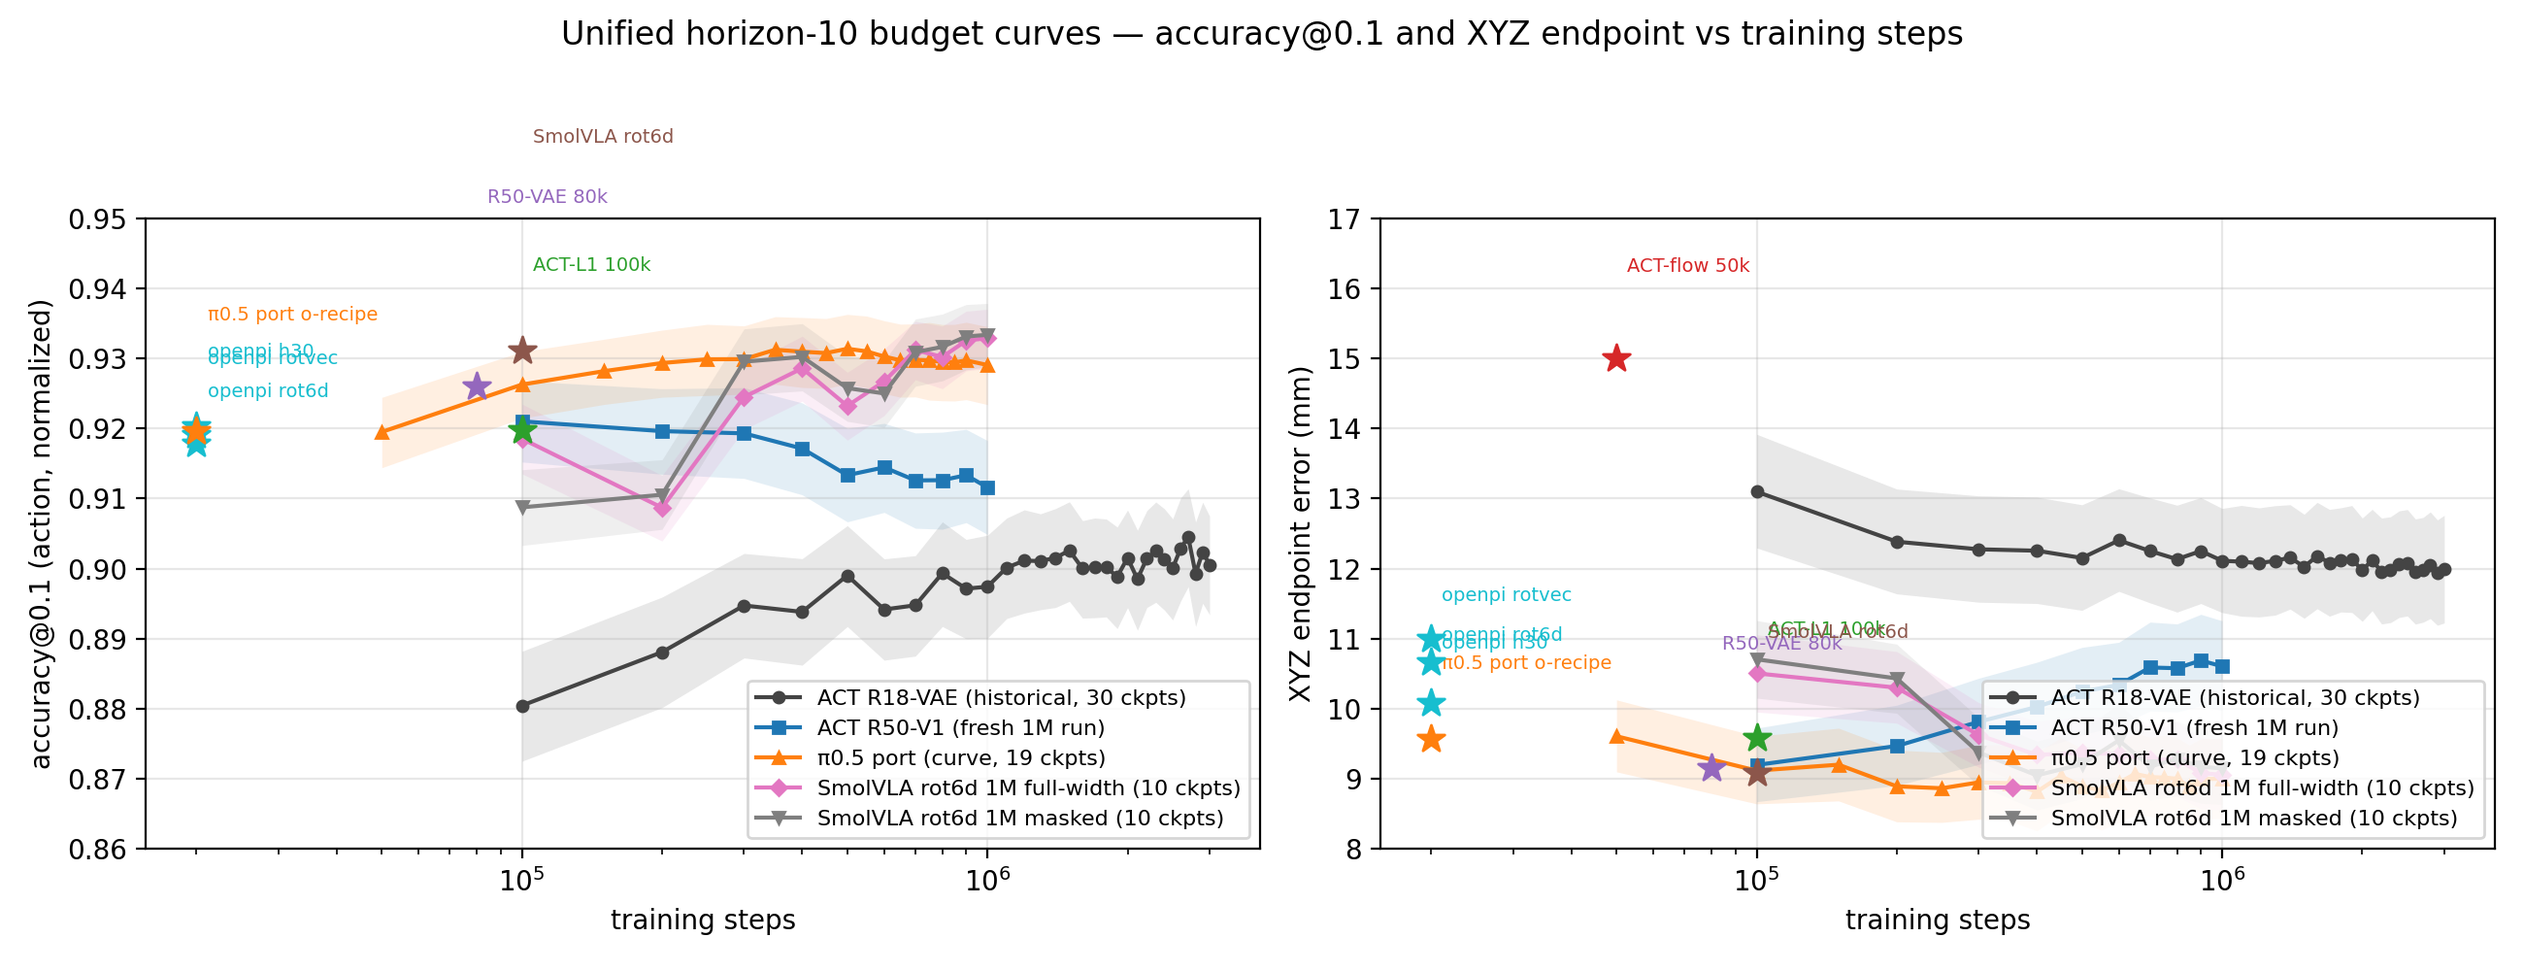
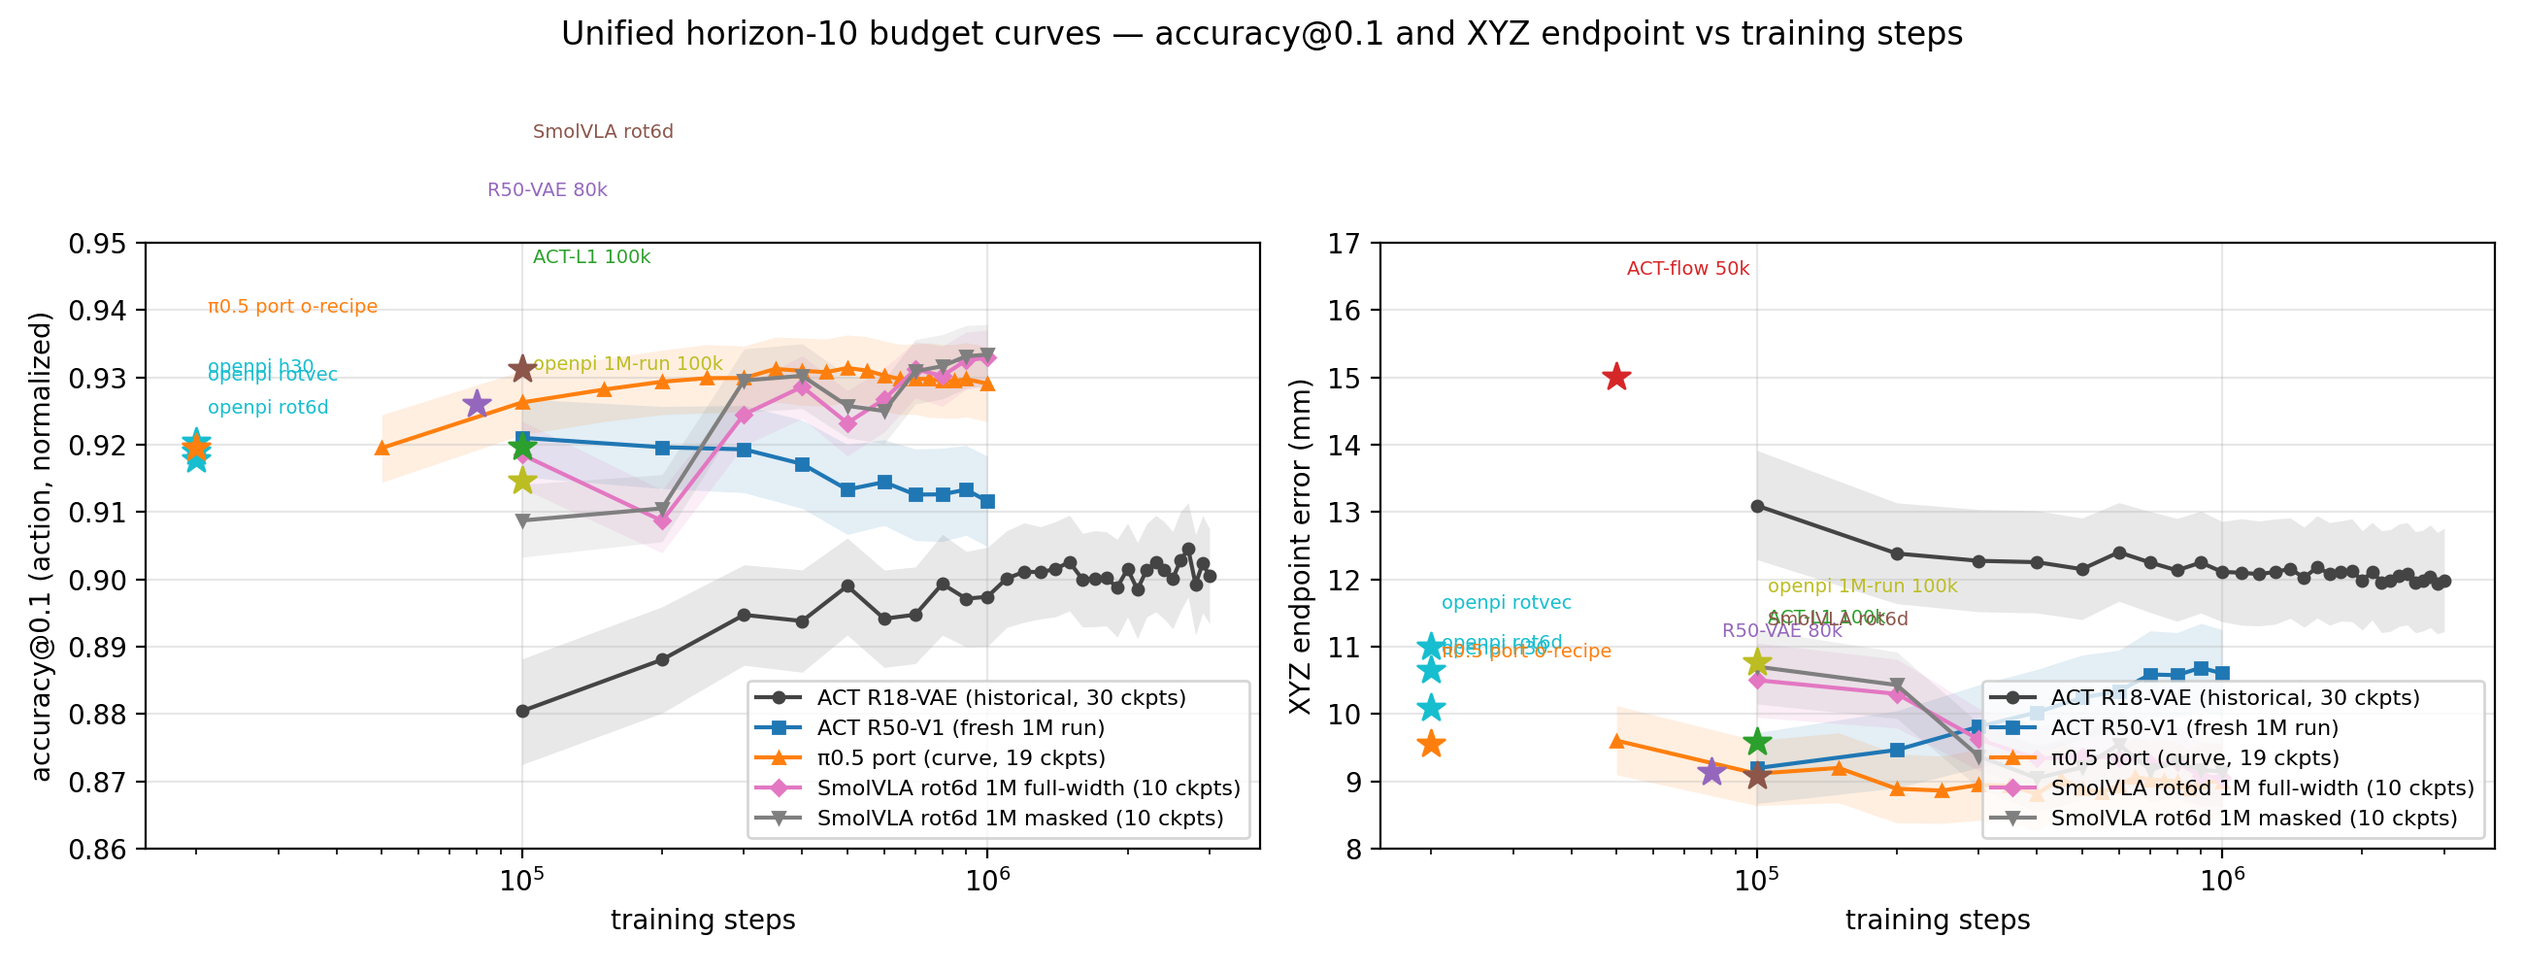
§9.2.12: openpi rot6d 1M-run stopped @111k — 100k ckpt scored (10.77mm, budget-flat; jerk 0.143° closest to GT)
Run pi05_lora_sroi_rot6d_1m stopped at 111k on 2026-08-23 per user
decision (~2.4 s/it put full 1M at ~27 days). Kept ckpt 100000 (with
train_state, resumable) evaluated under the §9.2.9 h10 protocol ×3
inference seeds (invariance reconfirmed: 10.77/10.78/10.77 mm).

- endpoint flat vs the 20k arm: 10.77 [10.22,11.34] vs 10.66
  [10.05,11.28] mm — 5× budget buys no t+10 endpoint; stays at the tie
  band's top edge
- at matched 100k steps port (9.12) and R50-V1 (9.20) lead with
  disjoint CIs; port@50k/200k samples already matches it — the h30
  sample-efficiency edge does not surface as an h10 endpoint lead
- rot-jerk 0.143° (GT 0.152°): closest-to-GT h10 row, tightened from
  0.157° at 20k — budget buys motion texture, not accuracy
- h10 tree 91→92 runs; plotter gains openpi1m family (olive star) in
  all four h10 figures; §9.2.9 master table + captions updated

diff --git a/examples/umi_relative_ee/act_flow_ablation/plot_unified_h10.py b/examples/umi_relative_ee/act_flow_ablation/plot_unified_h10.py
@@ -50,6 +50,7 @@ COLORS = {
     "smol": "#8c564b",
     "smol1m": "#e377c2",
     "smolmask": "#7f7f7f",
+    "openpi1m": "#bcbd22",
 }
 
 # Bar-chart representatives: (run, label, family). One row per surviving
@@ -68,6 +69,7 @@ REPRESENTATIVES = [
     ("pi05_lora_sroi_rot6d_seed1000_0020000steps", "openpi rot6d 20k", "openpi"),
     ("pi05_lora_sroi_rotvec_seed1000_0020000steps", "openpi rotvec 20k", "openpi"),
     ("pi05_lora_sroi_rot6d_h30_seed1000_0020000steps", "openpi rot6d-h30 20k", "openpi"),
+    ("pi05_openpi1m_seed1000_0100001steps", "openpi rot6d 100k (§9.2.12)", "openpi1m"),
     # kiwi rows (K4): rendered when present
     ("pi05_port_seed1000_1000000steps", "π0.5 port 1M (kiwi)", "port"),
     ("pi05_port_seed1000_0700000steps", "π0.5 port 700K (kiwi)", "port"),
@@ -99,6 +101,7 @@ FAMILY_PREFIXES = [
     ("pi05_lora_sroi_rot6d_h30_", "openpi", "openpi rot6d-h30"),
     ("pi05_lora_sroi_rot6d_", "openpi", "openpi rot6d"),
     ("pi05_lora_sroi_rotvec_", "openpi", "openpi rotvec"),
+    ("pi05_openpi1m_", "openpi1m", "openpi rot6d 1M-run"),
     ("pi05_port_", "port", "π0.5 port"),
     ("smolvla_rot6d_", "smol", "SmolVLA rot6d"),
     ("smolvla_axis_angle_", "smol", "SmolVLA axis-angle"),
@@ -226,6 +229,7 @@ def fig_budget(rows: dict[str, dict]) -> None:
             ("pi05_lora_sroi_rot6d_seed1000_0020000steps", "openpi rot6d", "openpi"),
             ("pi05_lora_sroi_rotvec_seed1000_0020000steps", "openpi rotvec", "openpi"),
             ("pi05_lora_sroi_rot6d_h30_seed1000_0020000steps", "openpi h30", "openpi"),
+            ("pi05_openpi1m_seed1000_0100001steps", "openpi 1M-run 100k", "openpi1m"),
             ("pi05_port_openpi_recipe_seed1000_020000steps", "π0.5 port o-recipe", "port"),
             ("act_r18_flow_u_lr1e5_seed2000_100000steps", "ACT-flow 50k", "flow"),
             ("act_r18_l1_seed2000_100000steps", "ACT-L1 100k", "actl1"),
@@ -379,6 +383,7 @@ def fig_jitter_budget(rows: dict[str, dict]) -> None:
             ("pi05_lora_sroi_rot6d_seed1000_0020000steps", "openpi rot6d", "openpi"),
             ("pi05_lora_sroi_rotvec_seed1000_0020000steps", "openpi rotvec", "openpi"),
             ("pi05_lora_sroi_rot6d_h30_seed1000_0020000steps", "openpi h30", "openpi"),
+            ("pi05_openpi1m_seed1000_0100001steps", "openpi 1M-run 100k", "openpi1m"),
             ("pi05_port_openpi_recipe_seed1000_020000steps", "π0.5 port o-recipe", "port"),
             ("act_r18_flow_u_lr1e5_seed2000_100000steps", "ACT-flow 50k", "flow"),
             ("act_r18_l1_seed2000_100000steps", "ACT-L1 100k", "actl1"),

diff --git a/examples/umi_relative_ee/act_flow_ablation/RESEARCH_REPORT.md b/examples/umi_relative_ee/act_flow_ablation/RESEARCH_REPORT.md
@@ -1,6 +1,6 @@
 # ACT capacity and flow-objective investigation
 
-**Status:** complete — seed-1000 controlled matrix (§9.1–9.2), π0.5 650K/700K flow-VLM reference (§9.2.2), SmolVLA rotation-notation ablation (§9.2.3), and the official-openpi rot6d-vs-rotvec replication (§9.2.4). §9.2.4 includes a horizon-matched correction: at equal 10-step scoring, SmolVLA / π0.5 port / official openpi are all statistically tied at 9–10 mm endpoint — earlier cross-model endpoint spreads were a horizon artifact; the real differentiators are smoothness and sample efficiency. The multi-seed (seed 2000/3000) confirmation was dropped for compute efficiency after two artifact-disk failures stranded the checkpoints (§8, incident 12); a 2026-08-17 salvage audit later found six seed-2000/3000 companion checkpoints alive at partial budgets and evaluated them (§9.2.6) — variant rank order replicates across training seeds — and then scored the fully-intact historical production ACT across its entire 100k–3M budget range on the same metric set (§9.2.7). Conclusions otherwise rest on a single training seed with per-episode bootstrap intervals, supplemented by the well-trained π0.5 references. The π0.5-port 700K→1M continuation completed 2026-08-19 (1M flat at both horizons: 9.00 mm t+10 / 21.75 mm t+30; §9.2.2, §9.2.9, §9.2.11). The horizon-30 openpi arm plus the JAX-vs-PyTorch matched-recipe stack A/B completed on 2026-08-17 (§9.2.5): scoring horizon alone moves the same openpi checkpoint 2.2× in endpoint error; h30 training costs ~15% near-horizon precision versus h10 training at equal budget; JAX-vs-PyTorch at matched recipe shows no accuracy gap but the PyTorch port is ~2× smoother; and the openpi recipe's ~9× sample efficiency transfers into the PyTorch stack. A fresh ACT R50-V1 1M-step run (seed 1000) completed on the host on 2026-08-18 (§9.2.8): its budget curve confirms the capacity conclusion — R50@100k already matches the historical R18@3M plateau and stays ~2 mm / ~2.7 pp Acc@0.1 ahead through 1M, with no late smoothness penalty; notably, budget improves t+30 endpoint but *degrades* t+10 endpoint on the same checkpoints, so checkpoint selection must match the executed horizon. A unified horizon-10 re-evaluation of every surviving model under one protocol with the full metric set (endpoint pose, per-component L1 / per-dim MSE, Acc@0.5/0.1 as co-primary metrics; §9.2.9) was launched 2026-08-18 — it re-scores, never retrains, and its metric definitions are normative for the report; its host rows landed the same day (at matched t+10, the ACT R50/L1 family, SmolVLA, and the 3B flow-VLMs statistically tie at 9–11 mm endpoint / Acc@0.1 0.92–0.93, the historical R18 sits above the pack at 12–13 mm even at 30× budget, and matched ACT-flow remains worst on every metric); the kiwi π0.5-port rows and the SmolVLA rot6d 1M full-width curve have since landed (§9.2.10); the §9.2.10 padding-mode A/B closed 2026-08-20 — masked-subspace ties full-width on endpoint at every budget, with only a small (7–9%) late-budget smoothness edge, so the strawberry-dataset padding pathology does not reproduce on this task.
+**Status:** complete — seed-1000 controlled matrix (§9.1–9.2), π0.5 650K/700K flow-VLM reference (§9.2.2), SmolVLA rotation-notation ablation (§9.2.3), and the official-openpi rot6d-vs-rotvec replication (§9.2.4). §9.2.4 includes a horizon-matched correction: at equal 10-step scoring, SmolVLA / π0.5 port / official openpi are all statistically tied at 9–10 mm endpoint — earlier cross-model endpoint spreads were a horizon artifact; the real differentiators are smoothness and sample efficiency. The multi-seed (seed 2000/3000) confirmation was dropped for compute efficiency after two artifact-disk failures stranded the checkpoints (§8, incident 12); a 2026-08-17 salvage audit later found six seed-2000/3000 companion checkpoints alive at partial budgets and evaluated them (§9.2.6) — variant rank order replicates across training seeds — and then scored the fully-intact historical production ACT across its entire 100k–3M budget range on the same metric set (§9.2.7). Conclusions otherwise rest on a single training seed with per-episode bootstrap intervals, supplemented by the well-trained π0.5 references. The π0.5-port 700K→1M continuation completed 2026-08-19 (1M flat at both horizons: 9.00 mm t+10 / 21.75 mm t+30; §9.2.2, §9.2.9, §9.2.11). The horizon-30 openpi arm plus the JAX-vs-PyTorch matched-recipe stack A/B completed on 2026-08-17 (§9.2.5): scoring horizon alone moves the same openpi checkpoint 2.2× in endpoint error; h30 training costs ~15% near-horizon precision versus h10 training at equal budget; JAX-vs-PyTorch at matched recipe shows no accuracy gap but the PyTorch port is ~2× smoother; and the openpi recipe's ~9× sample efficiency transfers into the PyTorch stack. A fresh ACT R50-V1 1M-step run (seed 1000) completed on the host on 2026-08-18 (§9.2.8): its budget curve confirms the capacity conclusion — R50@100k already matches the historical R18@3M plateau and stays ~2 mm / ~2.7 pp Acc@0.1 ahead through 1M, with no late smoothness penalty; notably, budget improves t+30 endpoint but *degrades* t+10 endpoint on the same checkpoints, so checkpoint selection must match the executed horizon. A unified horizon-10 re-evaluation of every surviving model under one protocol with the full metric set (endpoint pose, per-component L1 / per-dim MSE, Acc@0.5/0.1 as co-primary metrics; §9.2.9) was launched 2026-08-18 — it re-scores, never retrains, and its metric definitions are normative for the report; its host rows landed the same day (at matched t+10, the ACT R50/L1 family, SmolVLA, and the 3B flow-VLMs statistically tie at 9–11 mm endpoint / Acc@0.1 0.92–0.93, the historical R18 sits above the pack at 12–13 mm even at 30× budget, and matched ACT-flow remains worst on every metric); the kiwi π0.5-port rows and the SmolVLA rot6d 1M full-width curve have since landed (§9.2.10); the §9.2.10 padding-mode A/B closed 2026-08-20 — masked-subspace ties full-width on endpoint at every budget, with only a small (7–9%) late-budget smoothness edge, so the strawberry-dataset padding pathology does not reproduce on this task. The openpi rot6d 1M-budget run was stopped at 111k on 2026-08-23 (user decision; ~2.4 s/it put the full 1M at ~27 days) and its kept 100k checkpoint scored under §9.2.9 (§9.2.12): 10.77 mm endpoint / Acc@0.1 0.915 — flat vs its 20k arm (budget buys no t+10 endpoint), while rot-jerk tightens to 0.143° (GT 0.152°), the closest-to-GT h10 row; at matched 100k steps the π0.5 port (9.12 mm) and R50-V1 (9.20 mm) lead on endpoint.
 **Started:** 2026-08-11  
 **Branch:** `research/umi-act-flowmatching-ablation-20260811`  
 **Source baseline:** `3feb3f3e`  
@@ -1685,8 +1685,9 @@ historical production ACT (30 checkpoints, 100k–3M), the six seed-23k
 companions (ACT-L1 @100k, R50-VAE @80k, ACT-flow @50k ×2 seeds each), the
 fresh ACT R50-V1 1M curve (§9.2.8, 100k-spaced), the π0.5 port (650K/700K/1M),
 Arm B (port h30-trained under the openpi recipe @20k, adopted from its
-conforming t+10 JSONs), SmolVLA both rotation notations @100k, and the three
-official openpi arms (rot6d/rotvec h10, rot6d h30 scored at t+10). Excluded,
+conforming t+10 JSONs), SmolVLA both rotation notations @100k, the three
+official openpi arms (rot6d/rotvec h10, rot6d h30 scored at t+10), and the
+openpi rot6d 1M-budget run's kept 100k checkpoint (§9.2.12). Excluded,
 and why: the entire seed-1000 ACT/flow/DP matrix including both
 `umi_official` ports — weights stranded by the artifact-disk failures (§8
 incident 12; §9.2.6 safetensors audit); the 30k screen variants of surviving
@@ -1695,11 +1696,12 @@ families — superseded by their 100k+ checkpoints. Outputs live under
 plus a cross-schema compiler; drivers: `eval_unified_h10_sweep.sh` (host),
 `kiwi_eval_unified_h10.sh` (kiwi, K-phase).
 
-**Status: all 91 rows complete (2026-08-20) — the π0.5-port 1M final landed
+**Status: all 92 rows complete (2026-08-23) — the π0.5-port 1M final landed
 with K1** (9.00 [8.43, 9.58] mm, flat vs 700K — no overfitting through the
 full schedule)**, the SmolVLA rot6d 1M full-width curve (§9.2.10) joined
-2026-08-19, and the kiwi masked-subspace 1M curve (10 rows, §9.2.10
-Option B) joined 2026-08-20.** The SmolVLA rows were front-run on
+2026-08-19, the kiwi masked-subspace 1M curve (10 rows, §9.2.10
+Option B) joined 2026-08-20, and the openpi rot6d 1M-run's kept 100k
+checkpoint joined 2026-08-23 (§9.2.12).** The SmolVLA rows were front-run on
 2026-08-18: the two kiwi-trained checkpoints were copied (weights only) to
 the host artifact tree and evaluated on the then-idle host GPU with
 identical flags (`eval_smolvla_unified_h10_host.sh`) rather than waiting
@@ -1782,6 +1784,7 @@ per-dimension (µm² / deg²):
 | pi05_lora_sroi_rot6d_h30_seed1000_0020000steps | 20000 | 10.09 [9.54, 10.66] | 1.81 [1.71, 1.91] | 2.90 | 18.9 | 0.530 | 0.61 | 0.994 | 0.918 [0.912, 0.923] | 0.161 |
 | pi05_lora_sroi_rot6d_seed1000_0020000steps | 20000 | 10.66 [10.05, 11.28] | 1.80 [1.70, 1.89] | 2.95 | 20.5 | 0.518 | 0.58 | 0.993 | 0.919 [0.913, 0.925] | 0.157 |
 | pi05_lora_sroi_rotvec_seed1000_0020000steps | 20000 | 11.00 [10.31, 11.68] | 1.65 [1.56, 1.74] | 2.97 | 22.5 | 0.489 | 0.53 | 0.993 | 0.920 [0.914, 0.926] | 0.200 |
+| pi05_openpi1m_seed1000_0100001steps | 100001 | 10.77 [10.22, 11.34] | 1.76 [1.67, 1.85] | 3.04 | 21.9 | 0.496 | 0.57 | 0.994 | 0.915 [0.909, 0.920] | 0.143 |
 | pi05_port_openpi_recipe_seed1000_020000steps | 20000 | 9.57 [9.07, 10.08] | 1.81 [1.73, 1.89] | 2.42 | 15.3 | 0.482 | 0.54 | 0.993 | 0.920 [0.914, 0.925] | 0.086 |
 | pi05_port_seed1000_0050000steps | 50000 | 9.61 [9.10, 10.13] | 1.82 [1.75, 1.89] | 2.43 | 15.3 | 0.500 | 0.56 | 0.992 | 0.920 [0.914, 0.924] | 0.117 |
 | pi05_port_seed1000_0100000steps | 100000 | 9.12 [8.64, 9.61] | 1.73 [1.66, 1.81] | 2.30 | 13.8 | 0.465 | 0.50 | 0.994 | 0.926 [0.921, 0.931] | 0.183 |
@@ -1820,7 +1823,8 @@ per-dimension (µm² / deg²):
 ![Unified horizon-10 budget curves — 30 historical R18 points, 10 fresh
 R50-V1 points, and the 18-point π0.5-port curve as the third line: fast to
 a 8.82–9.07 mm plateau (~200k) then flat through 900k, in contrast to
-R50-V1's t+10 drift](figures/unified_h10_budget.png)
+R50-V1's t+10 drift; the §9.2.12 openpi 100k star sits at the tie-band top
+(10.77 mm, flat vs its 20k arm)](figures/unified_h10_budget.png)
 
 ![Unified horizon-10 jitter — every run of the sweep, log scale, dashed =
 ground truth (0.152° / 0.70 mm)](figures/unified_h10_jitter.png)
@@ -2252,6 +2256,65 @@ Read-outs (extended as the pending rows land):
    controller in the inventory, with the caveat of its 20k training budget
    (§9.2.5 showed h30 training costs ~15% near-horizon precision vs h10
    training — visible here as its absence from the t+10 leaders).
+
+### 9.2.12 openpi rot6d 1M-budget run: stopped at 111k — the kept 100k checkpoint under the unified h10 protocol
+
+User-directed 2026-08-20: extend the official-openpi rot6d recipe
+(`pi05_lora_sroi_rot6d_1m`) to a 1M-step budget — identical model / data /
+LoRA / bs16 to the §9.2.4 rot6d arm, with only the schedule stretched
+(warmup 10k, cosine 2.5e-5 → 2.5e-6 over the full 1M) and 100k-spaced
+checkpoints kept for a budget curve under the unified protocols. Wall-clock
+settled at ~2.4 s/it (bs16 on the host 4090, ~150 ms/sample), putting the
+full 1M at ~27 days; on 2026-08-23 the user stopped the run at **111k steps**
+and directed an evaluation of what it kept. The trainer's rotation policy
+retained exactly one permanent checkpoint — `run1/100000` (with train_state,
+so the run remains resumable via `--resume`; the rolling 25k-spaced
+intermediates were rotated out by design) — evaluated here.
+
+**Status: complete (2026-08-23) — one row (`pi05_openpi1m_seed1000_0100001steps`),
+§9.2.9 protocol (canonical 500-query window, t+10, 3 inference seeds); the
+run itself is stopped-at-111k, not schedule-converged.** Openpi serving is
+inference-seed-invariant as before — the three seeds land at 10.77 / 10.78 /
+10.77 mm endpoint (0.01 mm spread); the row reports the seed-1000 report
+exactly as in §9.2.4/§9.2.5.
+
+| Run | step | XYZ end (mm) | Rot end (deg) | XYZ L1/dim (mm) | XYZ MSE/dim (µm²) | Rotvec L1/dim (deg) | Rotvec MSE/dim (deg²) | Acc@0.5 | Acc@0.1 | Rot jerk (deg) |
+| --- | ---: | ---: | ---: | ---: | ---: | ---: | ---: | ---: | ---: | ---: |
+| pi05_openpi1m_seed1000_0100001steps | 100001 | 10.77 [10.22, 11.34] | 1.76 [1.67, 1.85] | 3.04 | 21.9 | 0.496 | 0.57 | 0.994 | 0.915 [0.909, 0.920] | 0.143 |
+
+Read-outs:
+
+1. **Endpoint is budget-flat within the openpi recipe — 5× steps bought
+   nothing at t+10.** 10.77 [10.22, 11.34] mm at 100k steps (1.6M samples)
+   vs the §9.2.4 20k arm's 10.66 [10.05, 11.28] mm (320k samples): CIs
+   overlap almost entirely and Acc@0.1 is flat (0.915 vs 0.919). The openpi
+   recipe enters the §9.2.9 tie band by 20k and stays at its top edge
+   through 100k — mirroring the §9.2.10 finding that budget stops buying
+   endpoint early in every flow family.
+2. **At matched 100k steps the PyTorch port and ACT R50-V1 lead on
+   endpoint.** port@100k 9.12 [8.64, 9.61] mm (bs4, 400k samples) and
+   R50-V1@100k 9.20 [8.67, 9.72] mm both sit below openpi's 10.77 with
+   disjoint CIs, and the port's 50k row (9.61 [9.10, 10.13] mm, 200k
+   samples) already matches openpi's 100k-steps endpoint with 8× fewer
+   samples. The openpi recipe's early-budget sample-efficiency edge
+   (§9.2.5, carried to h30 in §9.2.11 read-out 8) therefore does not
+   appear as an endpoint lead at t+10 in this range: at h10 the port's
+   budget curve is ahead at every matched step count ≥50k.
+3. **What budget does buy is motion texture: closest-to-GT h10 row in the
+   inventory.** Rot-jerk 0.143° vs GT 0.152° — 94% of ground truth,
+   tightened from the 20k arm's 0.157°, with XYZ-jerk 0.87 mm vs GT 0.70
+   (1.25×). For reference the ACT/VAE families and the mature port
+   over-smooth (rot-jerk 0.03–0.09°, well under GT) while SmolVLA sits
+   ~7× over (1.04°); the openpi rows remain the only family that tracks
+   the GT jerk level.
+4. **Caveats.** (a) The 100k checkpoint sits at 10% of its 1M cosine
+   (LR ≈ 2.3e-5, still near peak) — the flat 20k→100k endpoint is a
+   mid-schedule observation, not the schedule's converged endpoint, and
+   whether the long cosine tail unlocks further endpoint gains remains
+   open. (b) The run is resumable: `run1/100000` retains train_state
+   (~900k steps ≈ 25 days remain if ever resumed). (c) One permanent
+   checkpoint exists, so this is a single point plotted as the §9.2.12
+   star in the h10 budget figures — not a curve.
 
 ### 9.3 Answers and promotion decision after stage one
 
@@ -3085,7 +3148,8 @@ MPLCONFIGDIR=/tmp/lerobot-matplotlib uv run --with matplotlib python \
 outputs `results/unified_h10_run_summary.csv` (per-run means + 95% CIs, all
 co-primary metrics) and `figures/unified_h10_{metrics,budget,jitter,jitter_budget}.png`; the K-phase
 and the SmolVLA full-width chain landed 2026-08-19 (81 runs incl. the §9.2.10
-curve); the masked chain added its 10 rows on 2026-08-20 (91 runs total).
+curve); the masked chain added its 10 rows on 2026-08-20 (91 runs total); the
+§9.2.12 openpi 1M-run 100k row made it 92 on 2026-08-23.
 
 The native-h30 full-chunk evaluation (§9.2.11) shares the mechanics with the
 horizon inverted (no `--eval_horizon` → full 30-step scoring over the same
